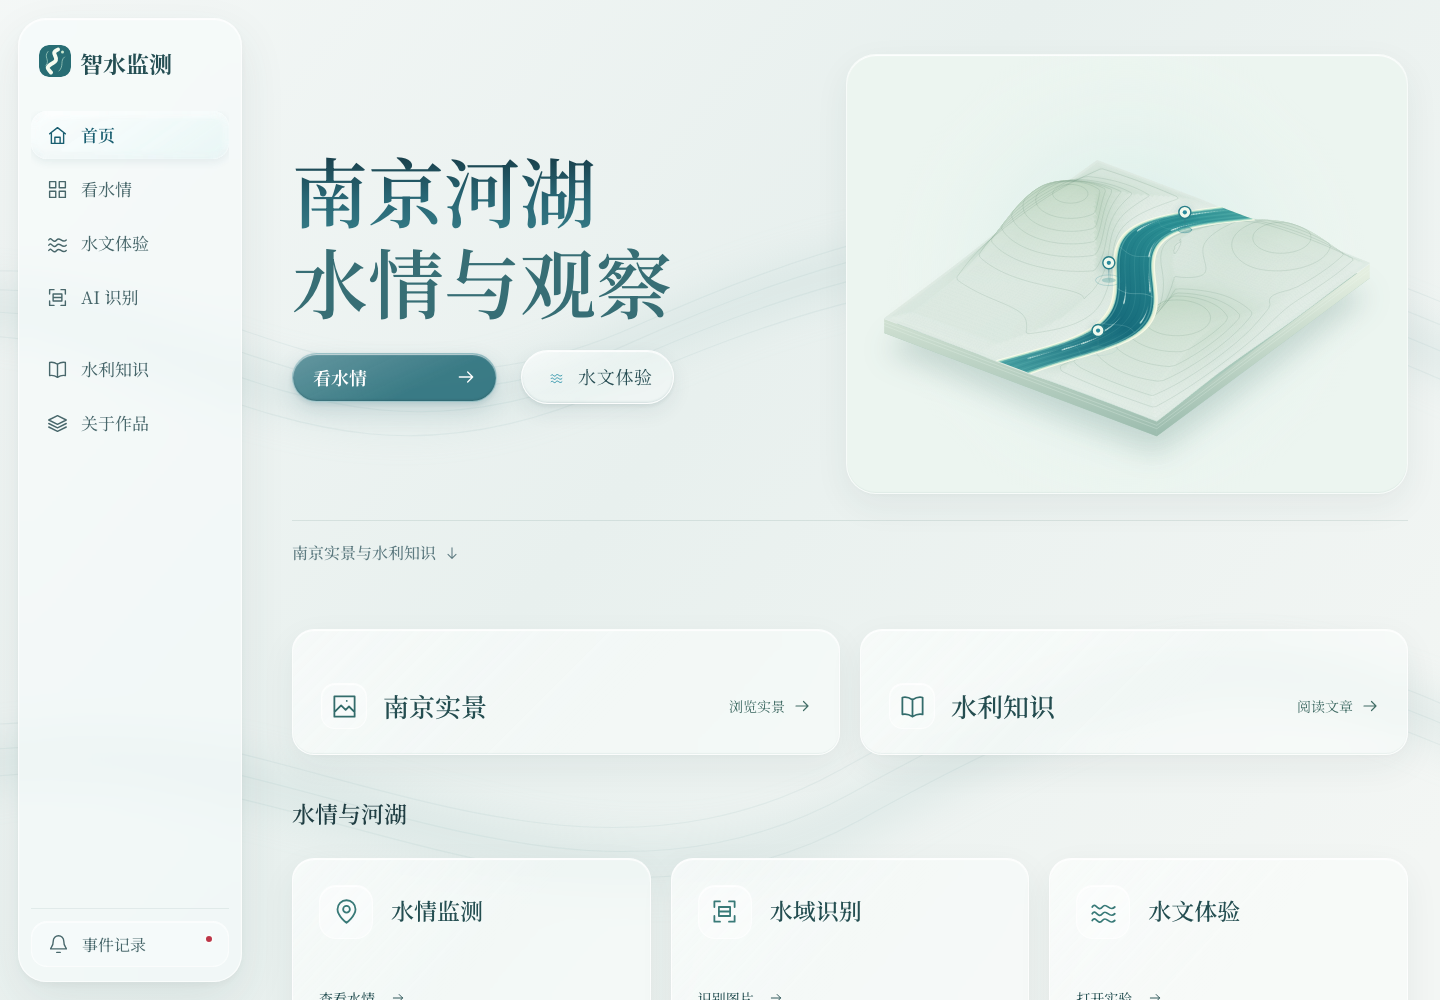
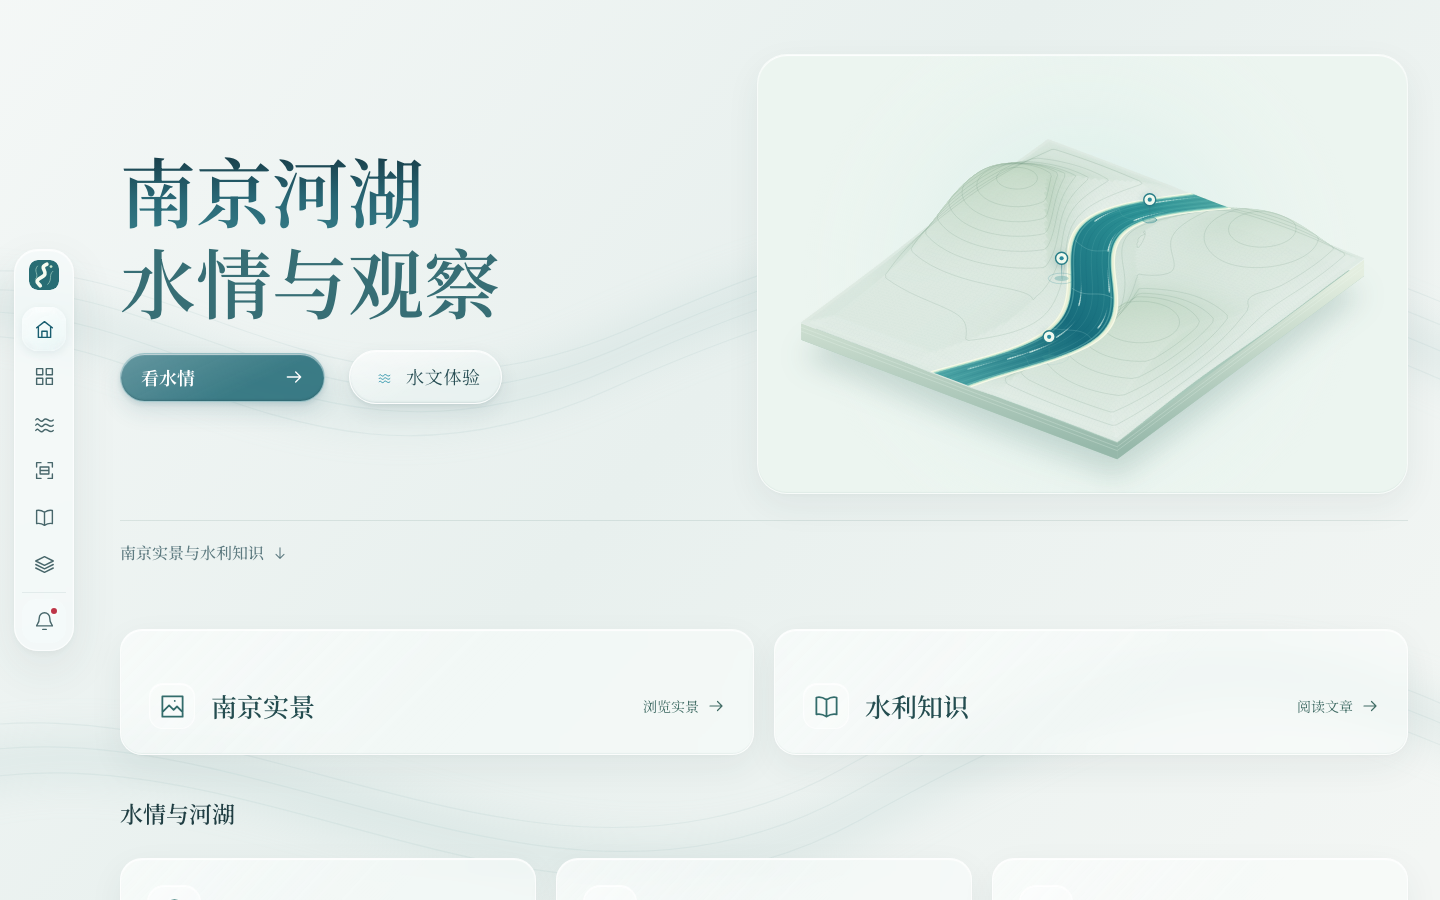
Shrink desktop navigation to a compact glass rail

diff --git a/dist/assets/liquid-navigation.css b/dist/assets/liquid-navigation.css
@@ -13,21 +13,23 @@
 .nav-link[data-glass-nav-item]:not([aria-current="page"]):not([data-glass-pressed]),.mobile-tab[data-glass-nav-item]:not([aria-current="page"]):not([data-glass-pressed]){-webkit-backdrop-filter:none;backdrop-filter:none}
 .nav-utility-label{display:none}
 @media(min-width:901px){
- :root{--navigation-width:224px;--navigation-space:260px;--dock-gutter:0px;--gutter:32px}
+ :root{--navigation-width:60px;--navigation-space:88px;--dock-gutter:0px;--gutter:32px}
  html{scroll-padding-top:28px}
- .sidebar{position:fixed;inset:18px auto 18px 18px;width:var(--navigation-width);height:auto;display:flex;flex-direction:column;align-items:stretch;gap:26px;padding:24px 12px 14px;border-radius:28px;z-index:40}
- .sidebar .brand{font-size:23px;gap:9px;padding:0 8px;letter-spacing:0;min-height:42px;flex-shrink:0}
- .sidebar .brand-icon{width:32px}.sidebar .brand img{width:32px;height:32px}
- .sidebar #main-nav{position:relative;display:flex;flex-direction:column;align-items:stretch;align-self:stretch;gap:6px;margin:0;padding:0;flex:1;min-height:0;overflow-y:auto;overscroll-behavior:contain;scrollbar-width:thin;background:transparent}
- .sidebar #main-nav .nav-link{position:relative;z-index:1;display:flex;flex-direction:row;align-items:center;justify-content:flex-start;gap:13px;flex-shrink:0;min-height:48px;padding:11px 16px;border:0;border-radius:16px;font-size:17px;font-weight:450;line-height:1.5;color:#48676b;background:transparent}
- .sidebar #main-nav .nav-link svg{display:block;width:21px;height:21px;flex-shrink:0}
- .sidebar #main-nav .nav-link[data-page="knowledge"]{margin-top:18px}
- .sidebar #main-nav .nav-link.active{color:#195e70;font-weight:600;background:transparent}
+ .sidebar{position:fixed;inset:16px auto 16px 14px;width:var(--navigation-width);height:max-content;max-height:calc(100dvh - 32px);margin-block:auto;display:flex;flex-direction:column;align-items:stretch;gap:6px;padding:7px;border-radius:24px;z-index:40}
+ .sidebar .brand{position:relative;display:grid;place-items:center;min-height:44px;padding:0;flex-shrink:0;border-radius:15px}
+ .sidebar .brand-icon{width:30px}.sidebar .brand img{width:30px;height:30px;border-radius:9px}
+ .sidebar #main-nav{position:relative;display:flex;flex-direction:column;align-items:stretch;align-self:stretch;gap:3px;margin:0;padding:0;flex:0 1 auto;min-height:0;overflow:visible;background:transparent}
+ .sidebar #main-nav .nav-link{position:relative;z-index:1;display:grid;place-items:center;flex-shrink:0;min-height:44px;padding:0;border:0;border-radius:15px;color:#48676b;background:transparent}
+ .sidebar #main-nav .nav-link svg{display:block;width:21px;height:21px}
+ .sidebar #main-nav .nav-link.active{color:#195e70;background:transparent}
  .sidebar .nav-link.active::after{display:none}
- .sidebar .header-tools{display:flex;flex-shrink:0;width:100%;margin:0;padding:12px 0 0;border-top:1px solid #6d969621}
- .sidebar .notification-button{display:flex;align-items:center;justify-content:flex-start;gap:13px;width:100%;height:46px;min-height:46px;margin:0;padding:10px 16px;border:1px solid #ffffff91;border-radius:16px;background:#ffffff29;color:#48676b;font:450 16px var(--font);box-shadow:inset 0 1px 0 #fff9}
- .sidebar .notification-button svg{width:21px;height:21px;flex-shrink:0}.sidebar .notification-button::after{right:14px;top:12px}
- .nav-utility-label{display:inline}
+ .sidebar .header-tools{display:flex;justify-content:center;flex-shrink:0;width:100%;margin:0;padding:6px 0 0;border-top:1px solid #6d969621}
+ .sidebar .notification-button{display:grid;place-items:center;width:44px;height:44px;min-height:44px;margin:0;padding:0;border:0;border-radius:15px;background:transparent;color:#48676b}
+ .sidebar .notification-button svg{width:21px;height:21px}.sidebar .notification-button::after{right:7px;top:7px}
+ .sidebar :is(.brand>span:last-child,.nav-link>span,.nav-utility-label){position:absolute;display:block;left:calc(100% + 13px);top:50%;transform:translateY(-50%);padding:5px 11px;border:1px solid #fff9;border-radius:10px;background:#f5faf8;color:#294e56;box-shadow:0 4px 12px #23454f19;font:550 14px/1.6 var(--font);white-space:nowrap;opacity:0;pointer-events:none}
+ .sidebar :is(.brand,.nav-link,.notification-button):focus-visible>span:last-child{opacity:1}
+ @media(hover:hover) and (pointer:fine){.sidebar :is(.brand,.nav-link,.notification-button):hover>span:last-child{opacity:1}}
+ @media(max-height:420px){.sidebar #main-nav{overflow:auto;overscroll-behavior:contain;scrollbar-width:none}}
  .sidebar .mobile-menu{display:none!important}
  .sidebar-shade{display:none!important}
  .shell{width:auto;min-width:0;margin-left:0;padding:24px 0 0 var(--navigation-space)}
@@ -41,7 +43,7 @@
  .monitor-console .rain-control{container-type:inline-size}
 }
 @container(max-width:390px){.monitor-console .rain-presets{grid-template-columns:repeat(2,minmax(0,1fr));gap:10px}}
-@media(min-width:901px) and (max-width:1100px){:root{--navigation-width:204px;--navigation-space:238px;--gutter:24px}.sidebar{left:16px}.sidebar .brand{font-size:21px;gap:8px}.sidebar #main-nav .nav-link{padding-inline:14px;font-size:16px}.cinematic-hero{gap:24px}.cinematic-copy h1{font-size:clamp(48px,5vw,56px)}.hero-primary{min-width:0}.cinematic-actions{flex-wrap:wrap;gap:14px}}
+@media(min-width:901px) and (max-width:1100px){:root{--gutter:24px}.cinematic-hero{gap:24px}.cinematic-copy h1{font-size:clamp(48px,5vw,56px)}.hero-primary{min-width:0}.cinematic-actions{flex-wrap:wrap;gap:14px}}
 @media(max-width:900px){
  html{scroll-padding-top:84px;scroll-padding-bottom:112px}
  body{padding-bottom:calc(102px + env(safe-area-inset-bottom,0px))}

diff --git a/dist/index.html b/dist/index.html
@@ -40,7 +40,7 @@
 <link rel="stylesheet" href="assets/task-flow.css?v=5.14.1-ai-rain">
 <link rel="stylesheet" href="assets/liquid-glass.css?v=5.14.2-songti-v46">
 <link rel="stylesheet" href="assets/liquid-controls.css?v=5.14.3-optical-controls">
-<link rel="stylesheet" href="assets/liquid-navigation.css?v=5.14.4-glass-navigation">
+<link rel="stylesheet" href="assets/liquid-navigation.css?v=5.14.5-compact-rail">
 <script src="assets/liquid-glass.js?v=5.14.4-glass-navigation" defer></script>
 <script src="assets/liquid-controls.js?v=5.14.4-glass-navigation" defer></script>
 <script src="assets/liquid-navigation.js?v=5.14.4-glass-navigation" defer></script>

diff --git a/README.md b/README.md
@@ -1,5 +1,7 @@
 # 智水未来 · 智水监测（独立新站）
 
+5.14.5：桌面侧边栏收为 60px 宽的悬浮图标栏，保留六个栏目和事件记录。悬停或键盘聚焦时显示宋体栏目提示，短窗口可滚动。手机底栏沿用五项布局。
+
 5.14.4：桌面端使用左侧常驻玻璃侧边栏，六个栏目显示图标和宋体名称，底部保留事件记录入口；主内容拥有独立列。手机使用五项悬浮玻璃导航，直接进入水利知识；完整菜单仍提供关于作品。选中项为随路由移动的独立玻璃胶囊，指针按压沿用RGB边缘色散与彩色高光，键盘/减少动态时不移动。900px切换导航形式，保留焦点、inert、菜单关闭与安全区域。
 
 5.14.3：按钮、分段选择、雨强预设及原生滑条统一为圆润玻璃控件。使用方向高光、接触与环境阴影；按压立即响应，Chromium以独立RGB背景位移产生边缘色散，WebKit/Firefox使用磨砂与彩色高光回退。滑块随原生输入连续移动，拖动轻微浮起；保留宋体、键盘、焦点、禁用状态及减少动态/透明和高对比回退。手机雨强按钮双列。
@@ -8,7 +10,7 @@
 
 5.14.1功能修复已包含在独立液态玻璃站点：https://apsonchian.ltd/zhishui-glass/ 。AI切换到已验证的兼容视觉接口，换图/取消/超时后可重新识别，图片读取10秒、整个流程45秒。降雨推演直接标明横纵轴、单位和图例，提供观察地点选择；修改雨强保留时间与闸门，停雨保留当前播放/暂停状态。主站 https://apsonchian.ltd/zhishui/ 同步功能修复并保留原视觉。
 
-## 液态玻璃视觉分支（5.14.4）
+## 液态玻璃视觉分支（5.14.5）
 
 当前分支：`codex/liquid-glass`，独立发布至 https://apsonchian.ltd/zhishui-glass/ 。`main`保留原视觉并同步功能修复；旧版本36137a8仍保存在仓库历史中。
 

diff --git a/qa/VERIFICATION.md b/qa/VERIFICATION.md
@@ -1,3 +1,11 @@
+# 紧凑桌面侧边栏 · 5.14.5
+
+5.14.5：桌面侧边栏收为 60px 宽的悬浮图标栏，保留六个栏目和事件记录。悬停或键盘聚焦时显示宋体栏目提示，短窗口可滚动。手机底栏沿用五项布局。
+
+npm run check 和 Chromium/WebKit/Firefox 导航回归通过。额外检查了图标栏尺寸、悬停与键盘提示、360px 高的短窗口滚动以及手机导航切换。桌面实际截图已更新。正式站发布 20261104-compact-rail-v49，安装器校验 179 个文件，HTTPS 实际导航检查通过。
+
+---
+
 # 玻璃侧边栏与手机导航 · 5.14.4
 
 5.14.4：桌面端使用左侧常驻玻璃侧边栏，六个栏目显示图标和宋体名称，底部保留事件记录入口；主内容拥有独立列。手机使用五项悬浮玻璃导航，直接进入水利知识；完整菜单仍提供关于作品。选中项为随路由移动的独立玻璃胶囊，指针按压沿用RGB边缘色散与彩色高光，键盘/减少动态时不移动。900px切换导航形式，保留焦点、inert、菜单关闭与安全区域。

diff --git a/SERVER_DEPLOYMENT.md b/SERVER_DEPLOYMENT.md
@@ -1,3 +1,15 @@
+# 当前分支站 · 紧凑桌面侧边栏（5.14.5）
+
+- 日期：2026-11-04，Asia/Shanghai。
+- 地址：https://apsonchian.ltd/zhishui-glass/ ，分支 codex/liquid-glass。
+- 发布：20261104-compact-rail-v49；前版 20261104-liquid-navigation-v48。
+- 发布包 SHA-256：bffb6bc5ba83d69a25eb28daf6fed94e56d5a117257e0dd50b0153def275fecd；运行文件 179 个。
+- 目录：/var/www/zhishui-glass/releases/20261104-compact-rail-v49；备份：/var/backups/zhishui-glass/20261104-compact-rail-v49。
+
+桌面侧边栏改为 60px 宽的悬浮图标栏，手机导航保留原布局。安装器完成 179 个文件的校验，Nginx 和既有站点健康；正式 HTTPS 通过尺寸、悬停与键盘提示、短窗口滚动和手机导航检查。
+
+---
+
 # 当前分支站 · 玻璃侧边栏与手机导航（5.14.4）
 
 - 日期：2026-11-04，Asia/Shanghai。

diff --git a/DEMO.md b/DEMO.md
@@ -1,4 +1,6 @@
-## 液态玻璃视觉分支（5.14.4）
+## 液态玻璃视觉分支（5.14.5）
+
+5.14.5：桌面侧边栏收为 60px 宽的悬浮图标栏，保留六个栏目和事件记录。悬停或键盘聚焦时显示宋体栏目提示，短窗口可滚动。手机底栏沿用五项布局。
 
 5.14.4：桌面端使用左侧常驻玻璃侧边栏，六个栏目显示图标和宋体名称，底部保留事件记录入口；主内容拥有独立列。手机使用五项悬浮玻璃导航，直接进入水利知识；完整菜单仍提供关于作品。选中项为随路由移动的独立玻璃胶囊，指针按压沿用RGB边缘色散与彩色高光，键盘/减少动态时不移动。900px切换导航形式，保留焦点、inert、菜单关闭与安全区域。
 
